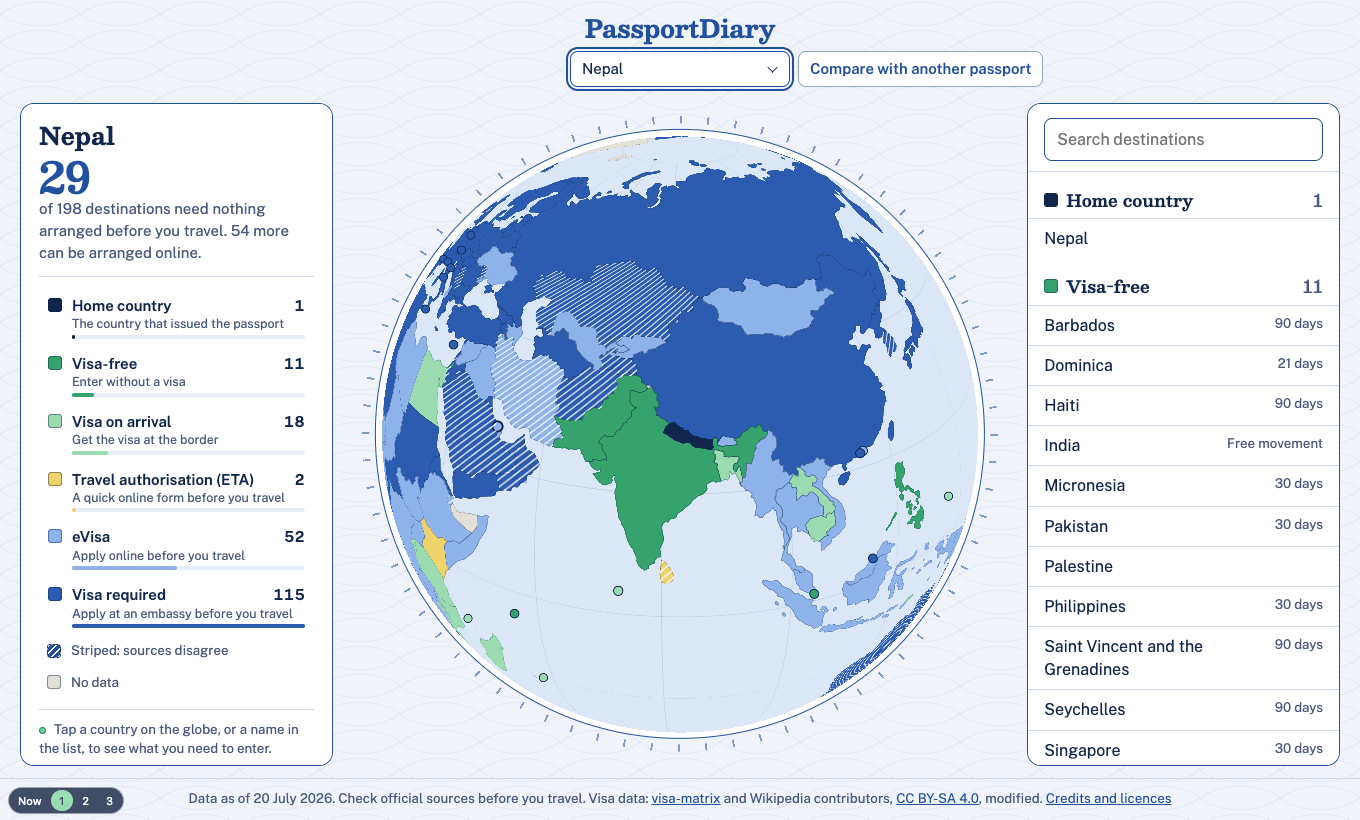
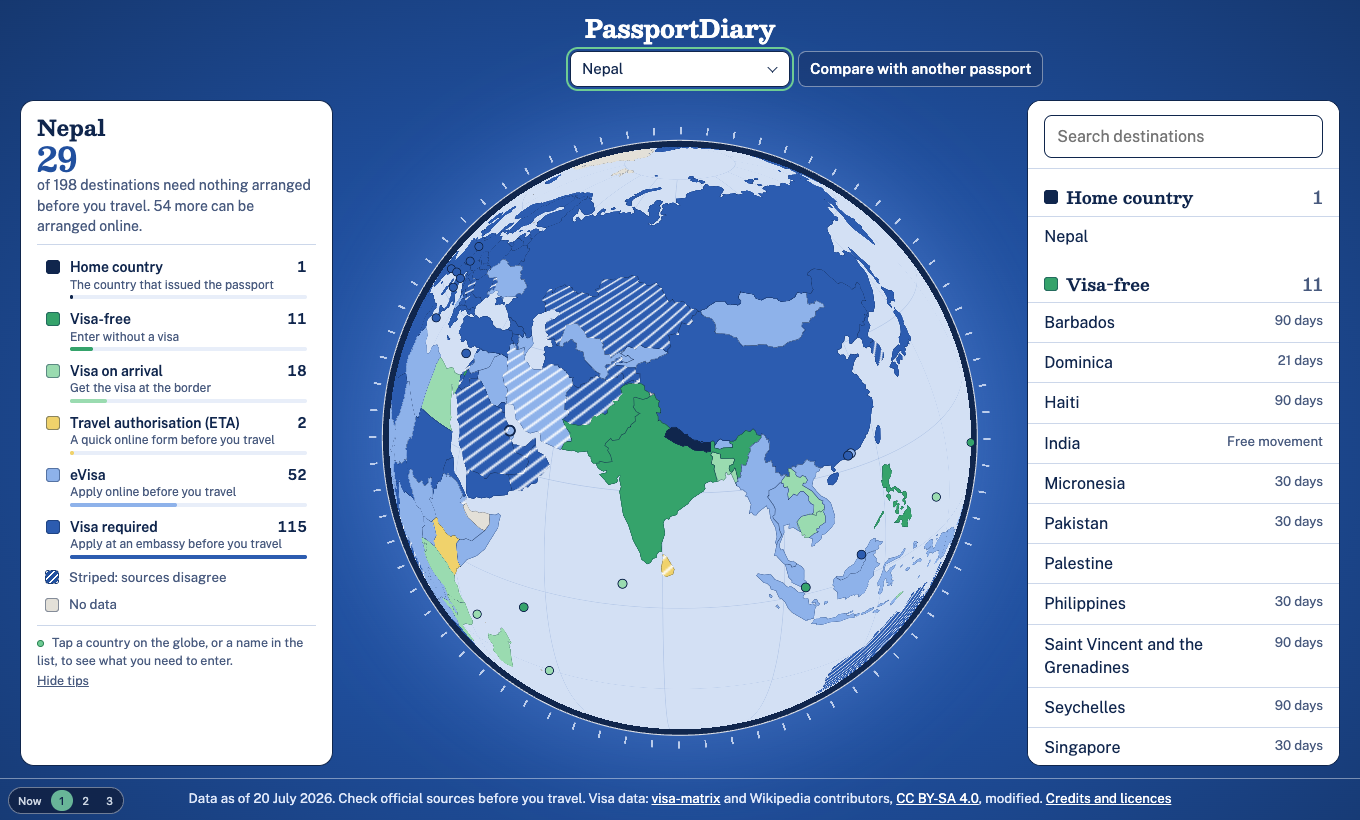
docs(design): update direction 1 and add a screenshot script

diff --git a/design/DIRECTIONS.md b/design/DIRECTIONS.md
@@ -1,9 +1,12 @@
 # Design directions
 
-Three directions, all running in the real app. Open one with `?design=1`, `?design=2` or
-`?design=3`, or use the small switcher in the bottom-left corner (`Now 1 2 3`). The choice is
-kept in localStorage. Without a parameter and with nothing stored, the app shows the design it
-had before, unchanged.
+Direction 1 (Visa page) is the chosen design and the default: the plain address shows it.
+The others stay available for now: `?design=0` is the first design, `?design=2` and
+`?design=3` the other two directions. The small switcher in the bottom-left corner
+(`Now 1 2 3`) does the same, and the choice is kept in localStorage.
+
+Screenshots are made with `npm run design:screens` (dev server on port 5183), for example
+`npm run design:screens -- 1 wide laptop phone`.
 
 Shared by all three:
 
@@ -19,29 +22,40 @@ Shared by all three:
 
 Screenshots are in `design/screens/`, named `<direction>-<wide|laptop|phone>-<state>.png`.
 
-## 1. Visa page
+## 1. Visa page (chosen)
 
-**Concept.** A printed travel document. The start screen is the cover of the passport; choosing
-a passport opens it to paper pages. The globe is a plate in the middle with a ruled ring around
-it, and the answer for a country is stamped on the page.
+**Concept.** A printed travel document. The ground is the blue cloth of the passport cover.
+On it lie two white pages and, between them, the globe as a printed plate with a ruled ring.
+The answer for a country is stamped on the page.
 
 **Palette**
 
 | Role | Hex |
 |---|---|
-| Primary blue (cover, edges, links, figure) | `#21509f` |
-| Deep blue | `#173c7c` |
-| Ink (text) | `#10264d` |
-| Soft ink (secondary text) | `#485a7e` |
-| Secondary green (buttons, start ring, cover emblem) | `#6ecb93` |
+| Ground, centre (glow behind the globe) | `#2a5fb5` |
+| Ground, middle (primary blue) | `#1f4e9c` |
+| Ground, edges | `#143468` |
+| Primary blue on white (links, figure, stamp) | `#21509f` |
+| Deep blue (emblem sea, hover) | `#173c7c` |
+| Ink (text on white, edge of pages, rim of the plate) | `#10264d` |
+| Soft ink (secondary text on white) | `#485a7e` |
+| Secondary green (accent on blue: focus ring, checked control, start ring, emblem land) | `#6ecb93` |
 | Deep green (edges of green) | `#2b8454` |
-| Paper background | `#f0f4fa` |
+| Text on the ground | `#ffffff`, secondary `#dfe8fa` |
+| Hairline on the ground | white at 42% |
 | Page surface | `#ffffff` |
-| Hairline | `#ccd7ea` |
+| Hairline on white | `#ccd7ea` |
 
-Map: sea `#dbe6f6`, home `#10264d`, visa-free `#35a36b`, visa on arrival `#9adbb0`,
+The ground is one radial gradient, `#2a5fb5` at the centre through `#1f4e9c` at 46% to
+`#143468` at the edges, centred a little below the middle so the light sits behind the
+globe. On screens up to 1100px wide it is a vertical gradient of the same three colours.
+There is no pattern.
+
+Map: sea `#d3e0f4`, home `#10264d`, visa-free `#35a36b`, visa on arrival `#9adbb0`,
 ETA `#f0d26b`, eVisa `#8eb2ea`, visa required `#2c5cb0`, no admission `#4a4450`,
 no data `#e3e0d8`. Stripes are white. Faint blue lines of latitude and longitude.
+The plate has a dark ink rim with a white hairline and white tick marks, so the pale sea
+has a firm edge against the blue ground.
 
 The scale runs from green to blue ink, not green to red. A visa is paperwork, not a
 prohibition, and for a weak passport a globe that is mostly red reads as "forbidden".
@@ -50,18 +64,25 @@ Green and blue also stay apart for people with red-green colour blindness.
 **Typefaces.** Besley (headings, wordmark, stamp) and Public Sans (text).
 
 **Layout.** Wordmark centred at the top, passport field centred under it. Two pages of equal
-width and equal height on either side of the globe.
+width and height on either side of the globe. On wide screens the map fills the whole page
+and header, pages and footer lie over it; the globe is framed in the space they leave.
+Between 821 and 1100px the globe is on top and the two pages sit side by side below it.
+On phones everything is one column.
 
 **Key and list.** Separate, but mirrored: the left page is the summary and the key, with one
 line under each term that says what it means and a bar for its share; the right page is the
 list or the opened country. When a country is open the key stays on the left page.
 
-**First visit.** Blue cover, the question in large type, the field with a green ring directly
-under it, four one-tap examples, the globe as a green emblem, and a quiet key along the bottom.
-After choosing, a tip sits at the foot of the left page.
+**First visit.** Wordmark top left. In the centre: the question in large serif type, one
+sentence, the white field with a green ring, and four one-tap examples. A very large globe
+rises from the bottom edge so that only its upper part shows, drawn as the emblem (green land,
+deep blue sea, green ring with fine ticks) with a soft glow. The key "The colours you will
+see" lies over the foot of the globe on a thin-edged dark blue strip. When a passport is
+chosen the globe glides up to its place between the pages and takes its colours; with
+reduced motion it jumps. After that, a tip sits at the foot of the left page.
 
-**Different from the others.** The only light, paper design; the only serif; the only one that
-keeps key and list apart; the calm green-to-blue map.
+**Different from the others.** The only serif; white pages on a blue ground; the only one
+that keeps key and list apart; the calm green-to-blue map.
 
 ## 2. Departures
 
